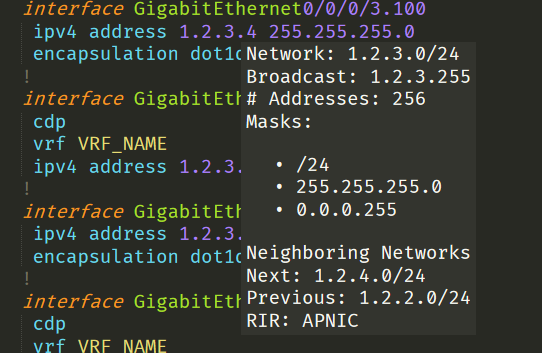
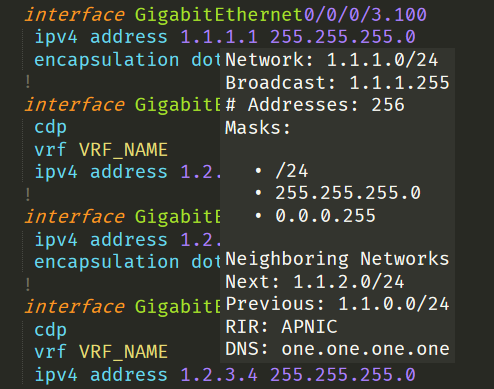
updates

Changed region(s): [[0.0304, 0.0, 0.9109, 1.0]]

diff --git a/lib/search/network/variables.py b/lib/search/network/variables.py
@@ -21,7 +21,11 @@ def _clean_regexp(item):
     return result
 
 
-ip = namedtuple('IP', 'v4')(
+ip = namedtuple('IP', 'v4 v6')(
+    v6=namedtuple('IPv6', 'host network')(
+        host=re.compile(r'(?:(?:(?:(?:[0-9A-Fa-f]{1,4}:){7}(?:[0-9A-Fa-f]{1,4}|:))|(?:(?:[0-9A-Fa-f]{1,4}:){6}(?::[0-9A-Fa-f]{1,4}|(?:(?:25[0-5]|2[0-4][0-9]|1[0-9][0-9]|[1-9]?[0-9])(?:\.(?:25[0-5]|2[0-4][0-9]|1[0-9][0-9]|[1-9]?[0-9])){3})|:))|(?:(?:[0-9A-Fa-f]{1,4}:){5}(?:(?:(?::[0-9A-Fa-f]{1,4}){1,2})|:(?:(?:25[0-5]|2[0-4][0-9]|1[0-9][0-9]|[1-9]?[0-9])(?:\.(?:25[0-5]|2[0-4][0-9]|1[0-9][0-9]|[1-9]?[0-9])){3})|:))|(?:(?:[0-9A-Fa-f]{1,4}:){4}(?:(?:(?::[0-9A-Fa-f]{1,4}){1,3})|(?:(?::[0-9A-Fa-f]{1,4})?:(?:(?:25[0-5]|2[0-4][0-9]|1[0-9][0-9]|[1-9]?[0-9])(?:\.(?:25[0-5]|2[0-4][0-9]|1[0-9][0-9]|[1-9]?[0-9])){3}))|:))|(?:(?:[0-9A-Fa-f]{1,4}:){3}(?:(?:(?::[0-9A-Fa-f]{1,4}){1,4})|(?:(?::[0-9A-Fa-f]{1,4}){0,2}:(?:(?:25[0-5]|2[0-4][0-9]|1[0-9][0-9]|[1-9]?[0-9])(?:\.(?:25[0-5]|2[0-4][0-9]|1[0-9][0-9]|[1-9]?[0-9])){3}))|:))|(?:(?:[0-9A-Fa-f]{1,4}:){2}(?:(?:(?::[0-9A-Fa-f]{1,4}){1,5})|(?:(?::[0-9A-Fa-f]{1,4}){0,3}:(?:(?:25[0-5]|2[0-4][0-9]|1[0-9][0-9]|[1-9]?[0-9])(?:\.(?:25[0-5]|2[0-4][0-9]|1[0-9][0-9]|[1-9]?[0-9])){3}))|:))|(?:(?:[0-9A-Fa-f]{1,4}:){1}(?:(?:(?::[0-9A-Fa-f]{1,4}){1,6})|(?:(?::[0-9A-Fa-f]{1,4}){0,4}:(?:(?:25[0-5]|2[0-4][0-9]|1[0-9][0-9]|[1-9]?[0-9])(?:\.(?:25[0-5]|2[0-4][0-9]|1[0-9][0-9]|[1-9]?[0-9])){3}))|:))|(?::(?:(?:(?::[0-9A-Fa-f]{1,4}){1,7})|(?:(?::[0-9A-Fa-f]{1,4}){0,5}:(?:(?:25[0-5]|2[0-4][0-9]|1[0-9][0-9]|[1-9]?[0-9])(?:\.(?:25[0-5]|2[0-4][0-9]|1[0-9][0-9]|[1-9]?[0-9])){3}))|:)))(?:%.+)?)'),
+        network=re.compile(r'(?:(?:(?:(?:(?:[0-9A-Fa-f]{1,4}:){7}(?:[0-9A-Fa-f]{1,4}|:))|(?:(?:[0-9A-Fa-f]{1,4}:){6}(?::[0-9A-Fa-f]{1,4}|(?:(?:25[0-5]|2[0-4][0-9]|1[0-9][0-9]|[1-9]?[0-9])(?:\.(?:25[0-5]|2[0-4][0-9]|1[0-9][0-9]|[1-9]?[0-9])){3})|:))|(?:(?:[0-9A-Fa-f]{1,4}:){5}(?:(?:(?::[0-9A-Fa-f]{1,4}){1,2})|:(?:(?:25[0-5]|2[0-4][0-9]|1[0-9][0-9]|[1-9]?[0-9])(?:\.(?:25[0-5]|2[0-4][0-9]|1[0-9][0-9]|[1-9]?[0-9])){3})|:))|(?:(?:[0-9A-Fa-f]{1,4}:){4}(?:(?:(?::[0-9A-Fa-f]{1,4}){1,3})|(?:(?::[0-9A-Fa-f]{1,4})?:(?:(?:25[0-5]|2[0-4][0-9]|1[0-9][0-9]|[1-9]?[0-9])(?:\.(?:25[0-5]|2[0-4][0-9]|1[0-9][0-9]|[1-9]?[0-9])){3}))|:))|(?:(?:[0-9A-Fa-f]{1,4}:){3}(?:(?:(?::[0-9A-Fa-f]{1,4}){1,4})|(?:(?::[0-9A-Fa-f]{1,4}){0,2}:(?:(?:25[0-5]|2[0-4][0-9]|1[0-9][0-9]|[1-9]?[0-9])(?:\.(?:25[0-5]|2[0-4][0-9]|1[0-9][0-9]|[1-9]?[0-9])){3}))|:))|(?:(?:[0-9A-Fa-f]{1,4}:){2}(?:(?:(?::[0-9A-Fa-f]{1,4}){1,5})|(?:(?::[0-9A-Fa-f]{1,4}){0,3}:(?:(?:25[0-5]|2[0-4][0-9]|1[0-9][0-9]|[1-9]?[0-9])(?:\.(?:25[0-5]|2[0-4][0-9]|1[0-9][0-9]|[1-9]?[0-9])){3}))|:))|(?:(?:[0-9A-Fa-f]{1,4}:){1}(?:(?:(?::[0-9A-Fa-f]{1,4}){1,6})|(?:(?::[0-9A-Fa-f]{1,4}){0,4}:(?:(?:25[0-5]|2[0-4][0-9]|1[0-9][0-9]|[1-9]?[0-9])(?:\.(?:25[0-5]|2[0-4][0-9]|1[0-9][0-9]|[1-9]?[0-9])){3}))|:))|(?::(?:(?:(?::[0-9A-Fa-f]{1,4}){1,7})|(?:(?::[0-9A-Fa-f]{1,4}){0,5}:(?:(?:25[0-5]|2[0-4][0-9]|1[0-9][0-9]|[1-9]?[0-9])(?:\.(?:25[0-5]|2[0-4][0-9]|1[0-9][0-9]|[1-9]?[0-9])){3}))|:)))(?:%.+)?(?:/(?:(?:12[0-8])|(?:1[0-1]\d)|(?:\d{1,2})))|::/0))'),
+    ),
     v4=namedtuple('IPv4', 'host network any')(
         host=re.compile(r"""
                     (?xi)

diff --git a/lib/search/network/network.py b/lib/search/network/network.py
@@ -8,6 +8,7 @@ import os
 import ipaddress
 import logging
 import importlib
+import socket
 
 import sublime
 
@@ -16,6 +17,7 @@ from .selection_utility import SelectionUtility
 from .variables import ip
 
 Iana = importlib.import_module('Network Tech.lib.iana').Iana
+cache = importlib.import_module('Network Tech.lib.utilities').cache
 
 # from network_tech.lib.iana import Iana
 
@@ -89,6 +91,30 @@ class Network:
             content = Html.div('RIR: {}'.format(rir))
         else:
             content = ''
+        return content
+
+    @classmethod
+    @cache.memory(expire_minutes=5, is_class_method=True)
+    def ptr_lookup(cls, network):
+        ip = str(ipaddress.ip_interface(network).ip)
+        try:
+            primary_hostname, alias_hostnames, other_ips = socket.gethostbyaddr(ip)
+        except socket.herror as e:
+            logger.debug('DNS Reverse Lookup Error {}'.format(e))
+            return Html.div('DNS: n/a')
+
+        content = Html.div(
+            'DNS: {}'.format(
+                socket.getfqdn(primary_hostname)
+            )
+        )
+
+        if alias_hostnames:
+            content += Html.div('DNS Aliases:')
+        for hostname in alias_hostnames:
+            fqdn_hostname = socket.getfqdn(hostname)
+            logger.debug('Alias {} FQDN {}'.format(hostname, fqdn_hostname))
+            content += Html.div(fqdn_hostname)
         return content
 
     @classmethod
@@ -188,13 +214,26 @@ class Network:
             except ValueError:
                 pass
             logger.debug('Network regexp match: "{}" from {}'.format(network, match.group()))
-        else:
-            match = ip.v4.host.search(network_text)
-            if match:
-                ip_address = match.group('ip')
-                network = ipaddress.ip_interface(ip_address)
-                logger.debug('Host regexp match: "{}" from {}'.format(network, match.group()))
-                
+            return network
+        match = ip.v4.host.search(network_text)
+        if match:
+            ip_address = match.group('ip')
+            network = ipaddress.ip_interface(ip_address)
+            logger.debug('Host regexp match: "{}" from {}'.format(network, match.group()))
+            return network
+
+        match = ip.v6.network.search(network_text)
+        if match:
+            network = ipaddress.ip_interface(match.group(0))
+            logger.debug('Host regexp match: "{}" from {}'.format(network, match.group()))
+            return network
+
+        match = ip.v6.host.search(network_text)
+        if match:
+            network = ipaddress.ip_interface(match.group(0))
+            logger.debug('Host regexp match: "{}" from {}'.format(network, match.group()))
+            return network
+
         return network
 
     @classmethod

diff --git a/lib/utilities/cache.py b/lib/utilities/cache.py
@@ -14,6 +14,45 @@ import sublime
 
 
 class cache:
+    _memory_cache = dict()
+    @classmethod
+    def memory(cls, expire_minutes=240, is_class_method=False):
+        """
+            The is_class_method flag will strip the first argument 
+        """
+
+        def decorator(function):
+
+            @functools.wraps(function)
+            def wrapper(*args, **kwargs):
+
+                if is_class_method:
+                    arguments = args[1:]
+                else:
+                    arguments = args
+                arguments = [str(a) for a in arguments]
+                kw_arguments = [str(a) for a in kwargs]
+
+                cache_key = json.dumps((arguments, kw_arguments), ensure_ascii=False, sort_keys=True)
+
+                if cache_key in cls._memory_cache:
+                    expire, result = cls._memory_cache[cache_key]
+                    expire = datetime.datetime.strptime(expire, '%Y-%m-%d %H:%M:%S')
+                    if (expire - datetime.datetime.now()).total_seconds() > 0:
+                        return result
+                    cls._memory_cache.pop(cache_key)
+
+                result = function(*args, **kwargs)
+
+                expire = datetime.datetime.now().replace(second=0, microsecond=0) + datetime.timedelta(minutes=expire_minutes)
+
+                cache = (str(expire), result)
+
+                cls._memory_cache[cache_key] = cache
+
+                return result
+            return wrapper
+        return decorator
 
     @classmethod
     def file(cls, path, expire_minutes=240, encoding='utf-8', is_class_method=False):

diff --git a/lib/search/network/listener.py b/lib/search/network/listener.py
@@ -49,12 +49,21 @@ class NetworkInfoListener(sublime_plugin.ViewEventListener):
                 if content:
                     self._update_popup(content, location)
 
+                get_rir = functools.partial(Network.rir, network)
+                get_hostname = functools.partial(Network.ptr_lookup, network)
+
                 self._loading_popup(
                     location,
                     content,
-                    functools.partial(Network.rir, network),
-                    'Getting RIR...'
+                    lambda: get_rir() + get_hostname(),
+                    'Querying RIR & DNS...'
                 )
+                # self._loading_popup(
+                #     location,
+                #     content,
+                #     functools.partial(Network.ptr_lookup, network),
+                #     'Performing Reverse Lookup...'
+                # )
             # Match only the first
             break
 
@@ -81,6 +90,8 @@ class NetworkInfoListener(sublime_plugin.ViewEventListener):
                     content,
                     flags=sublime.COOPERATE_WITH_AUTO_COMPLETE,
                     location=location,
+                    max_width=20000,
+                    max_height=20000,
                 )
 
 class FindSubnetCommand(sublime_plugin.TextCommand):

diff --git a/messages/2.25.0.md b/messages/2.25.0.md
@@ -1,0 +1,7 @@
+# [2.25.0] - 2019-04-01
+
+## Added
+
+* Quick Info
+
+ * DNS Hostname Lookup
